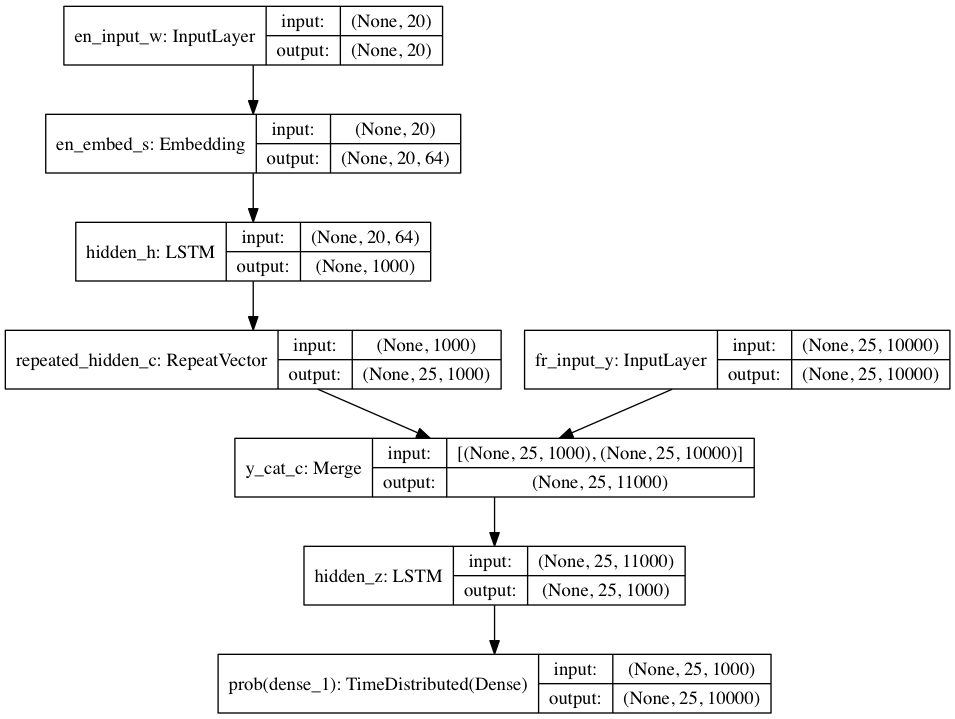
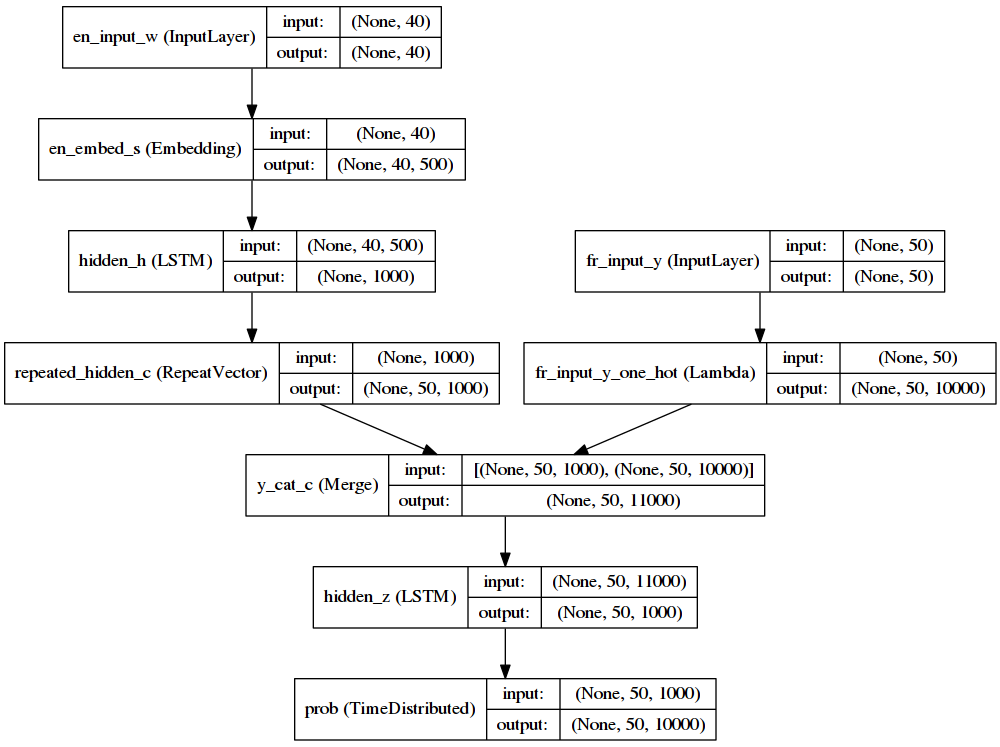
one hot layer, sparse loss and tensorboard

diff --git a/seq2seq_keras/translate.py b/seq2seq_keras/translate.py
@@ -23,64 +23,34 @@ For questions regarding the project, please leave comments or pull requests to:
 
 """
 
-from __future__ import absolute_import
-from __future__ import division
-from __future__ import print_function
-
 import os
-import sys
 import numpy as np
-import tensorflow as tf
 from keras.layers import RepeatVector, Input, merge
-from keras.layers.core import Dense
+from keras.layers.core import Dense, Lambda
 from keras.layers.embeddings import Embedding
 from keras.layers.recurrent import LSTM
 from keras.layers.wrappers import TimeDistributed
 from keras.models import Model
-from tensorflow import one_hot
+from keras.callbacks import TensorBoard, ModelCheckpoint
+from keras import backend as K
 
 # FIXME: this is sloppy, whoever did this
 from data_feeder import *
 from tester import SMT_Tester
-
-tf.app.flags.DEFINE_float("learning_rate", 0.5, "Learning rate.")
-tf.app.flags.DEFINE_float("learning_rate_decay_factor", 0.99, "Learning rate decays by this much.")
-tf.app.flags.DEFINE_float("max_gradient_norm", 5.0, "Clip gradients to this norm.")
-tf.app.flags.DEFINE_integer("batch_size", 32, "Batch size to use during training.")
-tf.app.flags.DEFINE_integer("size", 1024, "Size of each model layer.")
-tf.app.flags.DEFINE_integer("num_layers", 3, "Number of layers in the model.")
-tf.app.flags.DEFINE_integer("embedding_size", 64, "Size of word embedding")
-tf.app.flags.DEFINE_integer("vocab_size", 10000, "Vocabulary size.")
-tf.app.flags.DEFINE_string("data_dir", "wmt", "Data directory")
-tf.app.flags.DEFINE_string("train_dir", "wmt", "Training directory.")
-tf.app.flags.DEFINE_integer("max_train_data_size", 0, "Limit on the size of training data (0: no limit).")
-tf.app.flags.DEFINE_integer("steps_per_checkpoint", 200,  "How many training steps to do per checkpoint.")
-tf.app.flags.DEFINE_boolean("decode", False, "Set to True for interactive decoding.")
-tf.app.flags.DEFINE_string("plot_name", None, "base name for plots")
-FLAGS = tf.app.flags.FLAGS
-
-
-def softmax_sampling(x):
-    idx = np.random.choice(len(x), p=x)
-    ret = np.zeros_like(x)
-    ret[idx] = 1
-    return ret
 
 
 def create_model(vocab_size, en_length, fr_length, hidden_dim):
     en = Input(shape=(en_length,), name='en_input_w')
     s = Embedding(vocab_size, FLAGS.embedding_size, input_length=en_length, mask_zero=True, name='en_embed_s')(en)
     h =LSTM(hidden_dim, return_sequences=False, name='hidden_h')(s)
-    
-
     c = RepeatVector(fr_length, name='repeated_hidden_c')(h)
-
-    fr = Input(shape=(fr_length, vocab_size,), name='fr_input_y')
-    decode_input = merge([c, fr], mode='concat',  name='y_cat_c')
+    fr = Input(shape=(fr_length,), name='fr_input_y')
+    fr_one_hot = Lambda(lambda x : K.one_hot(K.cast(x,'int32'), FLAGS.vocab_size), name="fr_input_y_one_hot")(fr)
+    decode_input = merge([c, fr_one_hot], mode='concat',  name='y_cat_c')
     z = LSTM(hidden_dim, return_sequences=True, name='hidden_z')(decode_input)
     p = TimeDistributed(Dense(vocab_size, activation='softmax'), name='prob')(z)
     model = Model(input=[en, fr], output=p)
-    if FLAGS.plot_name is not None: 
+    if FLAGS.plot_name:
         plot(model, to_file=FLAGS.plot_name+'.png', show_shapes=True)
     return model
 
@@ -90,19 +60,26 @@ def create_model_test(vocab_size, hidden_dim):
     s = Embedding(vocab_size, FLAGS.embedding_size, input_length=1, mask_zero=True, name='en_embed_s')(en)
     h =LSTM(hidden_dim, return_sequences=False, name='hidden_h')(s)
     c = RepeatVector(1, name='repeated_hidden_c')(h)
-
     prev = Input(shape=(1, vocab_size,), name='fr_input_y')
     decode_input = merge([c, prev], mode='concat',  name='y_cat_c')
     z = LSTM(hidden_dim, return_sequences=True, name='hidden_z')(decode_input)
     p = TimeDistributed(Dense(vocab_size, activation='softmax'), name='prob')(z)
     model = Model(input=[en, prev], output=p)
-    if FLAGS.plot_name is not None: 
+    if FLAGS.plot_name:
         plot(model, to_file=FLAGS.plot_name+'_test.png', show_shapes=True)
     return model
 
 
-def one_hot(a, vocab_size):
-    return (np.arange(vocab_size) == a[:,:,None]-1).astype(int)
+def one_hot(x, vocab_size):
+    ns, nt = x.shape
+    output = K.zeros((ns, nt, vocab_size))
+
+
+def dense_to_one_hot(labels_dense, num_classes=10):
+    num_labels = K.shape(labels_dense)[0]
+    labels_one_hot = np.zeros((num_labels, num_classes))
+    labels_one_hot.flat[labels_dense.ravel()] = 1
+    return labels_one_hot
 
 
 def train():
@@ -138,14 +115,42 @@ def train():
             # TODO: should also run a validation/test
             # 1. somehow copy weights from train model to test model
             # 2. model_test.test_on_batch(...)
-            
-            # do_validation
-            # do_testing
-
+            ## do_validation
+            ## do_testing
             # optional: print("saving a model...")
-            model_train.save(os.path.join(FLAGS.train_dir, "itr_%d.chkpoint" % (i+1)), overwrite=False)
+            model_train.save(os.path.join(FLAGS.train_dir, "itr_%d.chkpoint" % (i+1)), overwrite=True)
+    ## use best weights for testing
 
-    # use best weights for testing
+
+def train_auto():
+    # Prepare WMT data
+    train_feeder = DataFeeder(data_dir=FLAGS.data_dir,
+                              prefix="giga-fren.release2",
+                              vocab_size=FLAGS.vocab_size,
+                              max_num_samples=FLAGS.max_train_data_size)
+
+    test_feeder = DataFeeder(data_dir=FLAGS.data_dir,
+                             prefix="newstest2013",
+                             vocab_size=FLAGS.vocab_size)
+
+    en_length, fr_length, hidden_dim = 40, 50, 1000
+    source, target = train_feeder.get_batch(FLAGS.max_train_data_size, en_length=en_length, fr_length=fr_length)
+    source, target = np.asarray(source), np.asarray(target)
+    target_output = np.expand_dims(target, -1)
+
+    model_train = create_model(FLAGS.vocab_size, en_length, fr_length, hidden_dim)
+    model_train.compile(optimizer='rmsprop', loss='sparse_categorical_crossentropy')
+    print(model_train.summary())
+
+    # tensorboard callback
+    tb_callback = TensorBoard(log_dir='../logs', histogram_freq=1, write_graph=True, write_images=False)
+    tb_callback.on_batch_begin()
+    # check point callback
+    cp_callback = ModelCheckpoint(filepath="../logs/weights.{epoch:02d}-{val_loss:.2f}.hdf5",
+                                  monitor='val_loss',
+                                  verbose = 1,
+                                  mode="auto")
+    model_train.fit([source, target], target_output, validation_split=0.1, nb_epoch=5, callbacks=[tb_callback, cp_callback])
 
 
 def test():
@@ -177,19 +182,19 @@ def test():
     # once done, 
 
 
-def array2indexedtuple(array): 
+def array2indexedtuple(array):
   return [val for val in enumerate(array[0])]
+
 
 def get_bestN(array, N):
   indexed_array = array2indexedtuple(array)
   return sorted(indexed_array, key=lambda x: x[1])[:N]
 
+
 # FIXME
 # * how will we give input to decoder? text file? command line?
 def decode():
     test()
-
-
     # for i in range(1000):
     #     source, target = train_feeder.get_batch(FLAGS.batch_size, en_length=en_length, fr_length=fr_length)
     #     print source
@@ -216,10 +221,26 @@ def decode():
     # return output
 
 if __name__ == "__main__":
-    if FLAGS.plot_name is not None: 
-        from keras.utils.visualize_util import plot
 
+    parser = argparse.ArgumentParser(description='Train a basic RNN Encoder-Decoder')
+    parser.add_argument("--learning_rate", type=float, default=0.5, help="Learning rate.")
+    parser.add_argument("--learning_rate_decay_factor", type=float, default=0.99, help="Learning rate decays by this much.")
+    parser.add_argument("--max_gradient_norm", type=float, default=5.0, help="Clip gradients to this norm.")
+    parser.add_argument("--batch_size", type=int, default=64, help="Batch size to use during training.")
+    parser.add_argument("--embedding_size", type=int, default=500, help="Size of word embedding")
+    parser.add_argument("--vocab_size", type=int, default=10000, help="Vocabulary size.")
+    parser.add_argument("--data_dir", default="wmt", help="Data directory")
+    parser.add_argument("--train_dir", default="wmt", help="Training directory.")
+    parser.add_argument("--max_train_data_size", type=int, default=0, help="Limit on the size of training data (0: no limit).")
+    parser.add_argument("--steps_per_checkpoint", type=int, default=200, help="How many training steps to do per checkpoint.")
+    parser.add_argument("--decode", type=bool, default=False, help="Set to True for interactive decoding.")
+    parser.add_argument("--plot_name", help="base name for plots")
+    FLAGS = parser.parse_args()
+    print(FLAGS)
+
+    if FLAGS.plot_name:
+        from keras.utils.visualize_util import plot
     if FLAGS.decode:
         decode()
     else:
-        train()
+        train_auto()

diff --git a/seq2seq_keras/data_feeder.py b/seq2seq_keras/data_feeder.py
@@ -6,8 +6,6 @@
 import re
 import argparse
 import os.path
-import data_utils
-
 from tensorflow.python.platform import gfile
 
 # Special vocabulary symbols - we always put them at the start.
@@ -62,14 +60,14 @@ class DataFeeder:
         en = []
         fr = []
         for i in range(batch_size):
-            if self.pos + i > len(self.en_data):
+            if self.pos + i > len(self.en_data)-1:
                 self.pos = 0
             tmp_en = self.en_data[self.pos + i]
             tmp_fr = self.fr_data[self.pos + i]
             while(len(tmp_en) < en_length):
                 tmp_en.append(0)
             tmp_en = list(reversed(tmp_en))
-            tmp_fr.insert(0, 0)
+            tmp_fr = [GO_ID] + tmp_fr + [EOS_ID]
             while(len(tmp_fr) < fr_length):
                 tmp_fr.append(0)
             tmp_en = tmp_en[:en_length]
